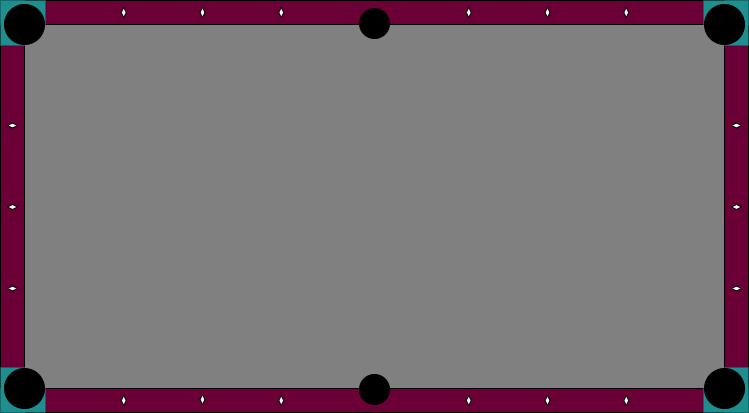
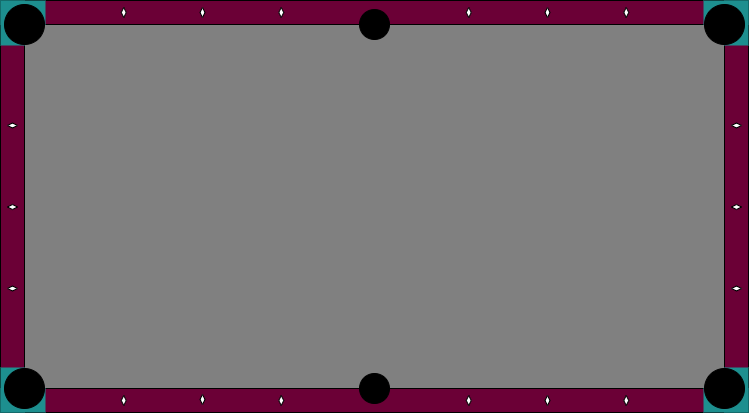
Middle pockets' placements are improved and helperLine is better I guess.

diff --git a/ui/CueUI.java b/ui/CueUI.java
@@ -8,6 +8,7 @@ import javax.swing.JPanel;
 
 import gameobjects.Cushion;
 import gameobjects.Pocket;
+import gameobjects.PointCushion;
 import physics.PolynomialSolver;
 import vectormath.Vector3;
 
@@ -167,6 +168,7 @@ public class CueUI extends JPanel{
         double newLength1 = 10000000;
         double newLength2 = 10000000;
         double newLength3 = 10000000;
+        double newLength4 = 10000000;
         double targetBallX = 0;
         double targetBallY = 0;
         g2.setColor(Color.BLACK);
@@ -181,7 +183,7 @@ public class CueUI extends JPanel{
                 Math.pow((TableUI.getPixelFromMeters(ball.getBallYPosition(), true) + table.getTableFrameY() - cueBallY), 2) - 4*Math.pow(CUE_BALL_RADIUS, 2);
 
                 double candidateLength = PolynomialSolver.solveQuadraticEquation(a, b, c);
-                if (0 < candidateLength && candidateLength < newLength1){
+                if (0 < candidateLength && candidateLength < newLength1 && b*b -4*a*c > 0){
                     newLength1 = candidateLength;
                     targetBallX = TableUI.getPixelFromMeters(ball.getBallXPosition(), false) + table.getTableFrameX();
                     targetBallY = TableUI.getPixelFromMeters(ball.getBallYPosition(), true) + table.getTableFrameY();
@@ -199,30 +201,38 @@ public class CueUI extends JPanel{
             double endY =  TableUI.getPixelFromMeters(end.getAxis(1), true) + table.getTableFrameY();
             if (startX - endX == 0){
                 double candidateLength1 = (cueBallX - startX)/Math.cos(angle + Math.PI);
-                double yCoordinanteCheck = cueBallY - candidateLength1*Math.sin(angle + Math.PI);
-                if (candidateLength1 > 0 && candidateLength1 < newLength2 && yCoordinanteCheck <= Math.max(startY, endY) && yCoordinanteCheck >= Math.min(startY, endY)){
-                    if (endY < startY){
-                        newLength2 = candidateLength1 - CUE_BALL_RADIUS/Math.cos(angle + Math.PI);
+                if (endY < startY){
+                    candidateLength1 = candidateLength1 - CUE_BALL_RADIUS/Math.cos(angle + Math.PI);
+                    double yCoordinanteCheck = cueBallY - candidateLength1*Math.sin(angle + Math.PI);
+                    if (candidateLength1 > 0 && candidateLength1 < newLength2 && yCoordinanteCheck <= Math.max(startY, endY) && yCoordinanteCheck >= Math.min(startY, endY)){
+                        newLength2 = candidateLength1;
                     }
-                    else{
-                        newLength2 = candidateLength1 + CUE_BALL_RADIUS/Math.cos(angle + Math.PI);
-                    }
-                        
                 }
+                else{
+                    candidateLength1 = candidateLength1 + CUE_BALL_RADIUS/Math.cos(angle + Math.PI);
+                    double yCoordinanteCheck = cueBallY - candidateLength1*Math.sin(angle + Math.PI);
+                    if (candidateLength1 > 0 && candidateLength1 < newLength2 && yCoordinanteCheck <= Math.max(startY, endY) && yCoordinanteCheck >= Math.min(startY, endY)){
+                        newLength2 = candidateLength1;
+                    }
+                }         
             }
 
             if (startY - endY == 0){
                 double candidateLength2 = (cueBallY - startY)/Math.sin(angle + Math.PI);
-                double xCoordinanteCheck = cueBallX - candidateLength2*Math.cos(angle + Math.PI);
-                if (candidateLength2 > 0 && candidateLength2 < newLength2 && xCoordinanteCheck <= Math.max(startX, endX) && xCoordinanteCheck >= Math.min(startX, endX)){
-                    if (endX < startX){
-                        newLength2 = candidateLength2 + CUE_BALL_RADIUS/Math.sin(angle + Math.PI);
+                if (endX < startX){
+                    candidateLength2 = candidateLength2 + CUE_BALL_RADIUS/Math.sin(angle + Math.PI);
+                    double xCoordinanteCheck = cueBallX - candidateLength2*Math.cos(angle + Math.PI);
+                    if (candidateLength2 > 0 && candidateLength2 < newLength2 && xCoordinanteCheck <= Math.max(startX, endX) && xCoordinanteCheck >= Math.min(startX, endX)){
+                        newLength2 = candidateLength2;
                     }
-                    else{
-                        newLength2 = candidateLength2 - CUE_BALL_RADIUS/Math.sin(angle + Math.PI);                           
-                    }
-                        
                 }
+                else{
+                    candidateLength2 = candidateLength2 - CUE_BALL_RADIUS/Math.sin(angle + Math.PI);
+                    double xCoordinanteCheck = cueBallX - candidateLength2*Math.cos(angle + Math.PI);
+                    if (candidateLength2 > 0 && candidateLength2 < newLength2 && xCoordinanteCheck <= Math.max(startX, endX) && xCoordinanteCheck >= Math.min(startX, endX)){
+                        newLength2 = candidateLength2;
+                    }      
+                }       
             }
 
             else{
@@ -233,6 +243,8 @@ public class CueUI extends JPanel{
                 if(a != 0){
                     double tempLength = -b/a;
                     if( tempLength > 0 ){
+                        double cushionAngle = Math.atan2(endY-startY,endX-startX);
+                        tempLength = tempLength - Math.abs(CUE_BALL_RADIUS/Math.sin(angle + Math.PI - cushionAngle));
                         double tempX = cueBallX - tempLength*Math.cos(angle + Math.PI);
                         double tempY = cueBallY - tempLength*Math.sin(angle + Math.PI);
                         double maxX = Math.max(startX,endX);
@@ -240,14 +252,13 @@ public class CueUI extends JPanel{
                         double minX = Math.min(startX,endX);
                         double minY = Math.min(startY,endY);
                         if(tempX <= maxX && tempX >= minX && tempY <= maxY && tempY >= minY && tempLength < newLength2){
-                            double cushionAngle = Math.atan2(endY-startY,endX-startX);
-                            newLength2 = tempLength - CUE_BALL_RADIUS/Math.sin(angle + Math.PI - cushionAngle);
+                            newLength2 = tempLength;
                         }
                     }
                 }
             }
         }      
-     
+
         Pocket[] pockets = Pocket.getStandardPocketArray();
         for (Pocket pocket : pockets){
             double pocketX = TableUI.getPixelFromMeters(pocket.getX(), false) + table.getTableFrameX();
@@ -266,7 +277,25 @@ public class CueUI extends JPanel{
             }
         }
 
-        double newLength = Math.min(Math.min(newLength1, newLength2),newLength3);
+        PointCushion[] pointCushions = PointCushion.getStandardPointCushionArray();
+        for (PointCushion pointCushion : pointCushions){
+            double pointCushionX = TableUI.getPixelFromMeters(pointCushion.getX(), false) + table.getTableFrameX();
+            double pointCushionY = TableUI.getPixelFromMeters(pointCushion.getY(), true) + table.getTableFrameY();
+
+            double a = 1;
+
+            double b = 2 * (Math.cos(angle + Math.PI) * (pointCushionX - cueBallX) + Math.sin(angle + Math.PI) * (pointCushionY - cueBallY));
+            
+            double c = Math.pow((pointCushionX - cueBallX), 2) + Math.pow((pointCushionY - cueBallY), 2) - Math.pow(CUE_BALL_RADIUS, 2);
+
+            double candidateLength = PolynomialSolver.solveQuadraticEquation(a, b, c);
+            
+            if (0 < candidateLength && candidateLength < newLength4){
+                newLength4 = candidateLength;
+            }
+        }
+
+        double newLength = Math.min(Math.min(Math.min(newLength1, newLength2),newLength3),newLength4);
         if(newLength == newLength1){
             helperLinePoint2X = cueBallX - (newLength) * Math.cos(angle + Math.PI);
             helperLinePoint2Y = cueBallY - (newLength) * Math.sin(angle + Math.PI);
@@ -286,6 +315,12 @@ public class CueUI extends JPanel{
         }
 
         else if(newLength == newLength3){
+            helperLinePoint2X = cueBallX - (newLength) * Math.cos(angle + Math.PI);
+            helperLinePoint2Y = cueBallY - (newLength) * Math.sin(angle + Math.PI);
+            g2.draw(new Line2D.Double(helperLinePoint1X, helperLinePoint1Y, helperLinePoint2X, helperLinePoint2Y));
+            g2.draw(new Ellipse2D.Double(helperLinePoint2X - CUE_BALL_RADIUS , helperLinePoint2Y - CUE_BALL_RADIUS, 2*CUE_BALL_RADIUS, 2*CUE_BALL_RADIUS));
+        }
+        else if(newLength == newLength4){
             helperLinePoint2X = cueBallX - (newLength) * Math.cos(angle + Math.PI);
             helperLinePoint2Y = cueBallY - (newLength) * Math.sin(angle + Math.PI);
             g2.draw(new Line2D.Double(helperLinePoint1X, helperLinePoint1Y, helperLinePoint2X, helperLinePoint2Y));

diff --git a/ui/MenuFrame.java b/ui/MenuFrame.java
@@ -18,6 +18,7 @@ import java.awt.Image;
 import java.awt.event.ActionEvent;
 import java.awt.event.ActionListener;
 import java.awt.image.BufferedImage;
+import java.awt.RenderingHints;
 import java.beans.PropertyChangeEvent;
 import java.beans.PropertyChangeListener;
 import java.io.File;
@@ -118,6 +119,8 @@ public class MenuFrame extends JFrame implements ActionListener{
     public void paint(Graphics g){
         super.paint(g);
         Graphics2D graphics=(Graphics2D)g;
+        graphics.setRenderingHint(RenderingHints.KEY_ANTIALIASING, RenderingHints.VALUE_ANTIALIAS_ON);
+        graphics.setRenderingHint(RenderingHints.KEY_RENDERING, RenderingHints.VALUE_RENDER_QUALITY);
         graphics.drawImage(this.image1, 150, 300, 200, 200, null);
         graphics.drawImage(this.image2, 850, 250, 250, 250, null);
     }

diff --git a/ui/PoolPanel.java b/ui/PoolPanel.java
@@ -58,7 +58,7 @@ public class PoolPanel extends JPanel implements ActionListener{
         for(Ball ball : ballArray)
             ballUIs.add(new BallUI(ball));
         Table table = new Table(ballArray);
-        this.tableUI = new TableUI("tableNew.png", table, ballUIs, this);
+        this.tableUI = new TableUI("table1.png", table, ballUIs, this);
         tableUI.setBounds(tableUI.getTableFrameX(), tableUI.getTableFrameY(), TableUI.getTableWidthPixels(), TableUI.getTableHeightPixels());
         this.add(tableUI);
 

diff --git a/gameobjects/Pocket.java b/gameobjects/Pocket.java
@@ -31,7 +31,7 @@ public class Pocket {
     public static Pocket[] getStandardPocketArray(){
         Pocket[] pockets = new Pocket[6];
         double[] xs = {24, 24, 374, 724, 724, 374};
-        double[] ys = {24, 388, 389, 388, 24, 23};
+        double[] ys = {24, 388, 388, 388, 24, 24};
         double[] rs = {20, 20, 15, 20, 20, 15};
 
         for(int i = 0; i < 6; i++){
